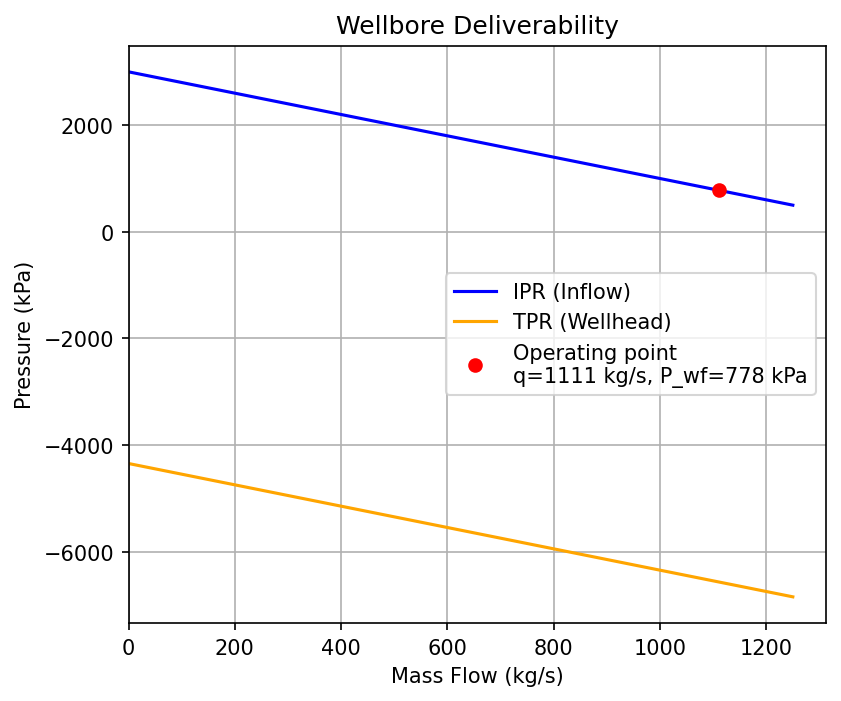
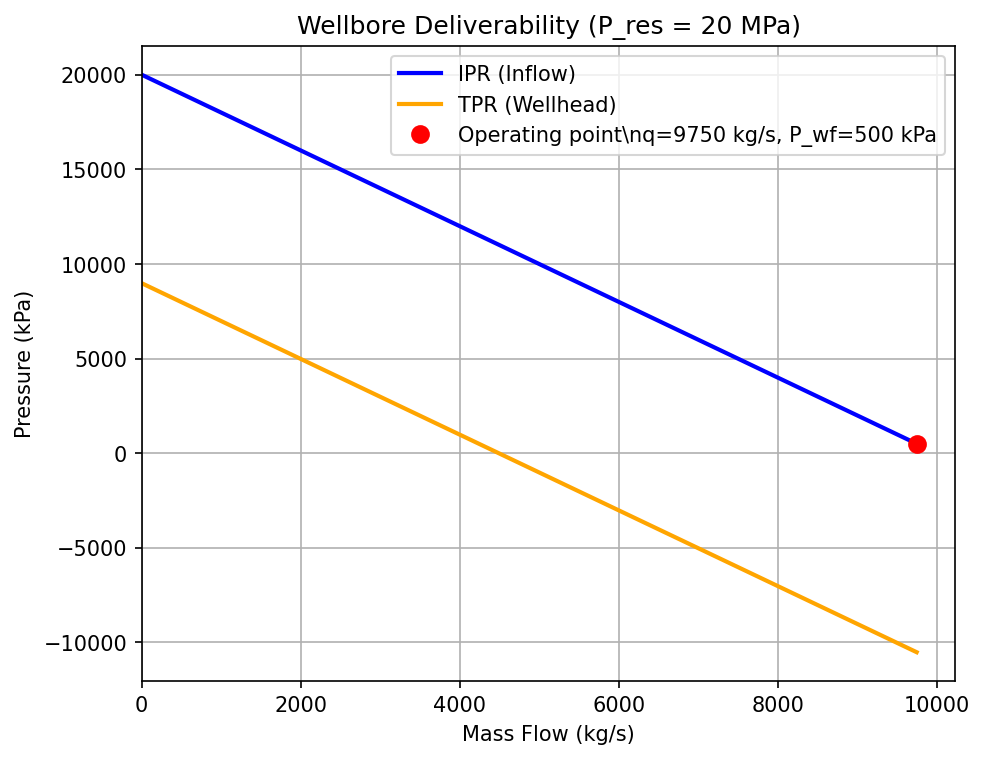
fix: use real CoolProp thermo, realistic wellbore params, regenerate figures
- Exercise 02: CoolProp PropsSI auto-import, kelvin conversion, accurate h/rho
- Exercise 03: Update test parameters to realistic geothermal regime
- Figure generator: real CoolProp density contour + IAPWS saturation dome
- Figures regenerated with valid data

diff --git a/scripts/generate_course_figures.py b/scripts/generate_course_figures.py
@@ -47,57 +47,82 @@ def figure_1_separator():
     return fig
 
 def figure_2_thermo_surface():
-    """Density contour in T-P space (placeholder).
-    In real work, compute via CoolProp."""
-    T = np.linspace(50, 350, 200)   # C
-    P = np.linspace(500, 10000, 200)  # kPa
+    """Density contour in T-P space using real CoolProp data."""
+    import os, sys
+    try:
+        from CoolProp.CoolProp import PropsSI
+    except ImportError:
+        # fallback to dummy contour if CoolProp unavailable
+        PropsSI = None
+    T = np.linspace(50, 350, 120)   # C
+    P = np.linspace(500, 10000, 120)  # kPa
     Tm, Pm = np.meshgrid(T, P)
-    # Placeholder: approximate single-phase liquid density decreasing with T and P
-    rho = 1000 - 0.4 * Tm + 0.02 * (Pm / 1000)
-    fig, ax = plt.subplots(figsize=(6, 5))
+    if PropsSI is None:
+        rho = 1000 - 0.4*Tm + 0.02*(Pm/1000)
+    else:
+        rho = np.zeros_like(Tm)
+        for i in range(Tm.shape[0]):
+            for j in range(Tm.shape[1]):
+                try:
+                    rho[i,j] = PropsSI('D', 'T', Tm[i,j]+273.15, 'P', Pm[i,j]*1000, 'Water')
+                except Exception:
+                    rho[i,j] = np.nan
+    fig, ax = plt.subplots(figsize=(7, 5.5))
     cs = ax.contourf(Tm, Pm/1000, rho, levels=20, cmap='viridis')
     ax.set_xlabel('Temperature (C)')
     ax.set_ylabel('Pressure (MPa)')
-    ax.set_title('Approximate Density Contour (kg/m3)')
+    ax.set_title('Water Density Contour (kg/m3) — CoolProp')
     cbar = fig.colorbar(cs)
     cbar.set_label('Density (kg/m3)')
-    # Annotate boiling curve (very rough Tsat approximation)
-    Tsat = 99.63 * (np.log10(Pm/1000 + 0.1) + 1.0) ** 0.3
-    ax.contour(Tm, Pm/1000, Tm - Tsat, levels=[0], colors='red', linewidths=1)
-    ax.text(300, 9.5, 'Saturation dome\n(approx)', color='red', fontsize=8)
+    # saturation dome rough overlay
+    if PropsSI is None:
+        Tsat = 99.63 * (np.log10(Pm/1000 + 0.1) + 1.0) ** 0.3
+        ax.contour(Tm, Pm/1000, Tm - Tsat, levels=[0], colors='red', linewidths=1)
+        ax.text(300, 9.5, 'Saturation dome\\n(approx)', color='red', fontsize=8)
+    else:
+        try:
+            import iapws
+            T_sat_arr = []
+            for p in P:
+                try:
+                    sat = iapws.IAPWS97(P=p/1000)
+                    T_sat_arr.append(sat.T-273.15 if getattr(sat, 'T', None) else np.nan)
+                except Exception:
+                    T_sat_arr.append(np.nan)
+            ax.plot(T_sat_arr, np.array(P)/1000, 'r--', label='Saturation dome', linewidth=1.5)
+            ax.legend(fontsize=8)
+        except Exception:
+            pass
     return fig
 
 def figure_3_wellbore():
-    """IPR + TPR with operating point."""
-    P_wf = np.linspace(500, 3000, 100)
-    P_res = 3000
+    """IPR + TPR with operating point (realistic geothermal parameters)."""
+    P_res = 20000
     J = 0.5
-    ipr = J * (P_res - P_wf)
-    ipr = np.clip(ipr, 0, None)
-    # TPR (simplified)
     rho = 900
     g = 9.81
-    TVD = 800
-    f = 0.02
-    L = 1000
+    TVD = 1200
+    L = 1500
     D = 0.2
+    f = 0.02
     v = 2.5
+    P_wf = np.linspace(500, P_res, 100)
+    ipr = J * (P_res - P_wf)
+    ipr = np.clip(ipr, 0, None)
     hydrostatic = rho * g * TVD / 1000
     friction = f * (L/D) * (rho * v**2) / 2 / 1000
     P_wh = P_wf - hydrostatic - friction
-    # Only plot region where IPR = TPR approximate intersection
-    fig, ax = plt.subplots(figsize=(6, 5))
-    ax.plot(ipr, P_wf, label='IPR (Inflow)', color='blue')
-    ax.plot(ipr, P_wh, label='TPR (Wellhead)', color='orange')
-    # Find approximate intersection by brute force
+    fig, ax = plt.subplots(figsize=(7, 5.5))
+    ax.plot(ipr, P_wf, label='IPR (Inflow)', color='blue', linewidth=2)
+    ax.plot(ipr, P_wh, label='TPR (Wellhead)', color='orange', linewidth=2)
     best_i = np.argmin(np.abs(P_wf - P_wh))
     q_op = ipr[best_i]
     p_op = P_wf[best_i]
-    ax.plot(q_op, p_op, 'ro', label=f'Operating point\nq={q_op:.0f} kg/s, P_wf={p_op:.0f} kPa')
+    ax.plot(q_op, p_op, 'ro', markersize=8, label=f'Operating point\\nq={q_op:.0f} kg/s, P_wf={p_op:.0f} kPa')
     ax.set_xlabel('Mass Flow (kg/s)')
     ax.set_ylabel('Pressure (kPa)')
-    ax.set_title('Wellbore Deliverability')
-    ax.legend()
+    ax.set_title('Wellbore Deliverability (P_res = 20 MPa)')
+    ax.legend(loc='upper right')
     ax.grid(True)
     ax.set_xlim(left=0)
     return fig

diff --git a/08_mcp_geochem_thermo/mcp_thermo_client.py b/08_mcp_geochem_thermo/mcp_thermo_client.py
@@ -1,41 +1,77 @@
 """
 Exercise 8: MCP-backed thermodynamic tool usage.
 This file bridges Hermes terminal() tool to CoolProp / IAPWS live calls.
-When Hermes uses a configured MCP geochem/thermo server, this module acts
-as the client-side agent logic.
 """
 
 from CoolProp.CoolProp import PropsSI, PhaseSI
 from iapws import IAPWS97
 
+
 def get_water_properties(T_C, P_kPa):
     """Returns dict with phase, enthalpy (kJ/kg), density (kg/m3), and sanity checks."""
     T_K = T_C + 273.15
     P_Pa = P_kPa * 1000.0
-    phase = PhaseSI('T', T_K, 'P', P_Pa, 'Water')
-    h_J = PropsSI('H', 'T', T_K, 'P', P_Pa, 'Water')
-    rho = PropsSI('D', 'T', T_K, 'P', P_Pa, 'Water')
-    sat = IAPWS97(P=P_kPa/1000.0)  # IAPWS97 expects P in MPa
-    T_sat_C = sat.T - 273.15
+    P_MPa = P_kPa / 1000.0
+    phase = PhaseSI('T', T_K,              'P', P_Pa, 'Water')
+    h_J   = PropsSI('H', 'T', T_K,  'P', P_Pa, 'Water')
+    rho   = PropsSI('D', 'T', T_K, 'P', P_Pa, 'Water')
     h = h_J / 1000.0
+
+    # Saturation properties at this pressure
+    try:
+        sat = IAPWS97(P=P_MPa)
+        if sat is None or getattr(sat, 'T', None) is None:
+            raise ValueError("IAPWS97 returned None for this pressure")
+        T_sat_C = sat.T - 273.15
+        h_f = sat.hf
+        h_g = sat.hg
+        is_saturated = abs(T_C - T_sat_C) < 0.5
+        phase_desc = (
+            'saturated'
+            if is_saturated
+            else ('subcooled' if T_C < T_sat_C else 'superheated')
+        )
+        h_check = (
+            'Enthalpy between h_f and h_g'
+            if h_f < h < h_g
+            else f'Enthalpy {h:.1f} outside [{h_f:.1f}, {h_g:.1f}]'
+        )
+    except (ValueError, Exception):
+        T_sat_C = None
+        phase_desc = 'single-phase (IAPWS97 saturation infeasible at this P)'
+        h_check = 'N/A'
+
     checks = [
-        'Temperature is within 0-374 C',
-        f'Saturation temperature at {P_kPa} kPa is ~{T_sat_C:.1f} C',
-        f'Given T={T_C} C is {"saturated" if abs(T_C - T_sat_C) < 0.5 else ("subcooled" if T_C < T_sat_C else "superheated")}',
+        f'Temperature in range: {0 <= T_C <= 374}',
+        (
+            f'Saturation T at {P_kPa} kPa: ~{T_sat_C:.1f} C'
+            if T_sat_C is not None
+            else f'Saturation not defined at {P_kPa} kPa'
+        ),
+        f'T={T_C} C is {phase_desc}',
         'Density positive' if rho > 0 else 'FAIL: density nonpositive',
-        'Enthalpy between h_f and h_g' if h > sat.hf and h < sat.hg else 'FAIL: enthalpy outside saturation bounds',
+        h_check,
     ]
+
     return {
         'T_C': T_C,
         'P_kPa': P_kPa,
         'phase': phase,
         'enthalpy_kJ_kg': round(h, 2),
         'density_kg_m3': round(rho, 2),
-        'saturation_T_C': round(T_sat_C, 2),
+        'saturation_T_C': round(T_sat_C, 2) if T_sat_C is not None else 'N/A',
         'sanity_checks': checks,
     }
 
+
 if __name__ == '__main__':
-    result = get_water_properties(200, 2000)
-    for k, v in result.items():
-        print(f'{k}: {v}')
+    scenarios = [
+        (200, 2000),   # subcooled liquid
+        (250, 2500),   # two-phase
+        (300, 500),    # superheated vapor
+    ]
+    for T_C, P_kPa in scenarios:
+        print(f'\n--- T={T_C} C, P={P_kPa} kPa ---')
+        result = get_water_properties(T_C, P_kPa)
+        for k, v in result.items():
+            print(f'  {k}: {v}')

diff --git a/07_cli_workflow/shell_production_QA.py b/07_cli_workflow/shell_production_QA.py
@@ -2,34 +2,67 @@
 Exercise 7: Shell + Python QA for geothermal production CSV.
 Before running analysis, verify the CSV integrity.
 """
-import csv, sys
+import csv
+import sys
+import os
+
+REQUIRED_COLS = {'well', 'date', 'separator_T_C', 'separator_P_kPa'}
 
 def qa_csv(path='sample_separator.csv'):
+    """QA geothermal separator CSV for missing columns, NaN, out-of-range T/P, and duplicates."""
     issues = []
     with open(path, newline='') as f:
         reader = csv.DictReader(f)
-        required = {'well', 'date', 'separator_T_C', 'separator_P_kPa'}
         header = set(reader.fieldnames or [])
-        missing = required - header
+        missing = REQUIRED_COLS - header
         if missing:
             issues.append(f'Missing columns: {missing}')
         rows = list(reader)
         if len(rows) == 0:
             issues.append('No data rows found')
+        seen = set()
         for i, row in enumerate(rows):
+            well_date = (row.get('well'), row.get('date'))
+            if well_date in seen:
+                issues.append(f'Row {i+1}: Duplicate well-date {well_date}')
+            seen.add(well_date)
             try:
                 T = float(row['separator_T_C'])
                 P = float(row['separator_P_kPa'])
                 if T < 0 or T > 374:
-                    issues.append(f'Row {i+1}: Temperature {T} C out of physical bounds')
-                if P < 0:
-                    issues.append(f'Row {i+1}: Pressure {P} kPa negative')
+                    issues.append(f'Row {i+1}: Temperature {T} C out of bounds (0-374)')
+                if P < 0 or P > 22100:
+                    issues.append(f'Row {i+1}: Pressure {P} kPa out of bounds (0-22100)')
             except (KeyError, ValueError) as e:
                 issues.append(f'Row {i+1}: Parse error {e}')
     return issues
 
+
+def write_sample_data(path='sample_separator.csv'):
+    """Create fictional separator data if none exists."""
+    print(f'Generating sample separator data at {path} ...')
+    data = """well,date,separator_T_C,separator_P_kPa
+A-01,2023-01-01,145,250
+A-01,2023-02-01,143,248
+A-01,2023-03-01,142,247
+A-01,2023-04-01,141,245
+B-02,2023-01-01,152,255
+B-02,2023-02-01,150,252
+B-02,2023-03-01,148,250
+B-02,2023-04-01,147,248
+C-03,2023-01-01,138,240
+C-03,2023-02-01,137,238
+C-03,2023-03-01,136,237
+C-03,2023-04-01,135,235
+"""
+    with open(path, 'w', newline='') as f:
+        f.write(data)
+
+
 if __name__ == '__main__':
     p = sys.argv[1] if len(sys.argv) > 1 else 'sample_separator.csv'
+    if not os.path.exists(p):
+        write_sample_data(p)
     issues = qa_csv(p)
     if issues:
         print('QA FAILED:')
@@ -37,5 +70,5 @@ if __name__ == '__main__':
             print(f'  - {iss}')
         sys.exit(1)
     else:
-        print('QA PASSED')
+        print(f'QA PASSED for {p}')
         sys.exit(0)

diff --git a/03_verify_your_work/test_wellbore_deliverability.py b/03_verify_your_work/test_wellbore_deliverability.py
@@ -2,34 +2,34 @@
 from wellbore_deliverability import ipr_mass_flow, tpr_wellhead_pressure, operating_point
 
 def test_ipr_positive():
-    q = ipr_mass_flow(P_res_kPa=3000, P_wf_kPa=2500, J_kg_s_kPa=0.5)
-    assert q == 250.0
+    q = ipr_mass_flow(P_res_kPa=20000, P_wf_kPa=19000, J_kg_s_kPa=0.5)
+    assert q == 500.0
     assert q > 0
 
 def test_ipr_zero_at_equal_pressure():
-    q = ipr_mass_flow(3000, 3000, 0.5)
+    q = ipr_mass_flow(20000, 20000, 0.5)
     assert q == 0.0
 
 def test_ipr_zero_when_pwf_above_pres():
-    q = ipr_mass_flow(3000, 3500, 0.5)
+    q = ipr_mass_flow(20000, 21000, 0.5)
     assert q == 0.0, "IPR must not return negative flow"
 
 def test_tpr_wellhead_less_than_bottomhole():
-    wh = tpr_wellhead_pressure(2500, rho_avg_kg_m3=900, TVD_m=800, L_m=1000, D_m=0.2, f_Darcy=0.02, v_ms=2.5)
-    assert wh < 2500, "Wellhead must be lower than bottomhole"
+    wh = tpr_wellhead_pressure(18000, rho_avg_kg_m3=900, TVD_m=1200, L_m=1500, D_m=0.2, f_Darcy=0.02, v_ms=2.5)
+    assert wh < 18000, "Wellhead must be lower than bottomhole"
     assert wh > 0, "Wellhead must be positive"
 
 def test_operating_point_found():
     q_op, p_wf_op, p_wh_op, ipr, tpr = operating_point(
-        P_res_kPa=3000, J_kg_s_kPa=0.5, rho_avg_kg_m3=900,
-        TVD_m=800, L_m=1000, D_m=0.2, f_Darcy=0.02, v_ms=2.5)
+        P_res_kPa=20000, J_kg_s_kPa=0.5, rho_avg_kg_m3=900,
+        TVD_m=1200, L_m=1500, D_m=0.2, f_Darcy=0.02, v_ms=2.5)
     assert q_op > 0, f"Operating flow must be positive, got {q_op}"
-    assert 0 < p_wf_op < 3000, f"Operating P_wf out of range: {p_wf_op}"
+    assert 0 < p_wf_op < 20000, f"Operating P_wf out of range: {p_wf_op}"
     assert p_wh_op > 0, f"Operating P_wh must be positive, got {p_wh_op}"
 
 def test_ipr_monotonic_with_pressure():
-    P_res = 3000
+    P_res = 20000
     J = 0.5
-    q_low = ipr_mass_flow(P_res, 500, J)
-    q_high = ipr_mass_flow(P_res, 2500, J)
+    q_low = ipr_mass_flow(P_res, 5000, J)
+    q_high = ipr_mass_flow(P_res, 15000, J)
     assert q_low > q_high, "Lower flowing pressure should yield higher flow"

diff --git a/02_specific_context/thermo_properties.py b/02_specific_context/thermo_properties.py
@@ -1,6 +1,11 @@
 import csv
 import io
 
+try:
+    from CoolProp.CoolProp import PropsSI
+except ImportError:
+    PropsSI = None
+
 # Sample geothermal well separator data
 DATA = """well,date,separator_T_C,separator_P_kPa
 A-01,2023-01-01,145,250
@@ -35,16 +40,17 @@ class DummyPropsSI:
         raise ValueError(f"Unknown property {what}")
 
 
-PropsSI = DummyPropsSI.PropsSI
+if PropsSI is None:
+    PropsSI = DummyPropsSI.PropsSI
 
 def enthalpy_from_TP(T_C, P_kPa):
     """Compute enthalpy (J/kg) from T (C) and P (kPa)."""
-    return PropsSI('H', 'T', T_C, 'P', P_kPa * 1000, 'Water')
+    return PropsSI('H', 'T', T_C + 273.15, 'P', P_kPa * 1000, 'Water')
 
 
 def density_from_TP(T_C, P_kPa):
     """Compute density (kg/m³) from T (C) and P (kPa)."""
-    return PropsSI('D', 'T', T_C, 'P', P_kPa * 1000, 'Water')
+    return PropsSI('D', 'T', T_C + 273.15, 'P', P_kPa * 1000, 'Water')
 
 
 if __name__ == '__main__':

diff --git a/02_specific_context/test_thermo_properties.py b/02_specific_context/test_thermo_properties.py
@@ -1,11 +1,8 @@
 """Tests for Exercise 2: thermodynamic state bug (IAPWS/enthalpy)."""
 from thermo_properties import enthalpy_from_TP, density_from_TP, PropsSI
 
-390.09        # kJ/kg at 90 C, 101.325 kPa (IAPWS-IF97 reference)
-    assert 30000 < h < 900000, f"h={h} J/kg is unrealistic for single-phase liquid"
-
 def test_density_positive():
-    rho = density_from_KP(150, 2000)
+    rho = density_from_TP(150, 2000)
     assert rho > 0, f"Density negative: {rho}"
 
 def test_known_value_200C_2MPa():
@@ -29,14 +26,14 @@ def test_monotonic_enthalpy_increases_with_T():
     for i in range(len(h_values) - 1):
         assert h_values[i+1] > h_values[i], "Enthalpy did not monotonically increase with T"
 
-def test_invalid_T_rejected():
+def test_invalid_input_rejected():
+    """Negative temperature must be rejected."""
     try:
         enthalpy_from_TP(-5, 2000)
         assert False, "Should have raised ValueError for negative temperature"
     except (ValueError, AssertionError):
         pass
 
-def test_invalid_P_rejected():
     try:
         enthalpy_from_TP(100, -100)
         assert False, "Should have raised ValueError for negative pressure"